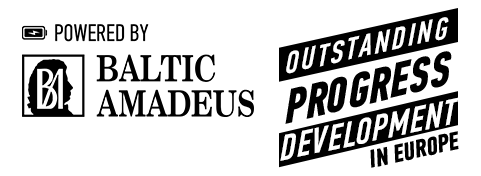
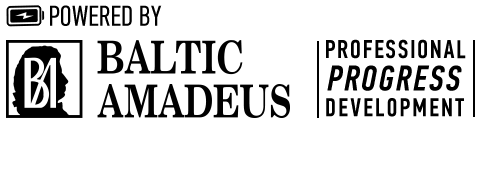
EMEA PUG Challenge colors and images.

diff --git a/Game/Game.Client/Styles.xaml b/Game/Game.Client/Styles.xaml
@@ -6,8 +6,9 @@
     <FontFamily x:Key="OpenSans">/Fonts/#Open Sans</FontFamily>
     <FontFamily x:Key="SegoeSymbol">Segoe UI Symbol</FontFamily>
 
-    <!--<ImageBrush x:Key="BaBackgroundBrush" ImageSource="Assets\background.png" Stretch="UniformToFill" />-->
-    <SolidColorBrush x:Key="BaBackgroundBrush" Color="#58c50f" Opacity="1"></SolidColorBrush>
+    <SolidColorBrush x:Key="BaBackgroundBrush" Color="#5795d2" Opacity="1"></SolidColorBrush>
+    <SolidColorBrush x:Key="BaBackgroundBrushDark" Color="#345694" Opacity="1"></SolidColorBrush>
+    <Color x:Key="ButtonDefaultDisabledBackgroundColor">#345694</Color>
 
     <Color x:Key="TextBlockDefaultForegroundColor" >#FF333333</Color>
     <SolidColorBrush x:Key="TextBlockDefaultForegroundBrush" Color="{StaticResource TextBlockDefaultForegroundColor}" />
@@ -49,7 +50,6 @@
     <Color x:Key="ButtonDefaultBorderColor" >#FFADADAD</Color>
     <Color x:Key="ButtonDefaultForegroundColor" >#FF333333</Color>
     <Color x:Key="ButtonDefaultBackgroundColor" >#FFFFFFFF</Color>
-    <Color x:Key="ButtonDefaultDisabledBackgroundColor" >#357709</Color>
     <Color x:Key="ButtonDefaultMouseOverBackgroundColor" >#FFEBEBEB</Color>
     <Color x:Key="ButtonDefaultPressedBackgroundColor" >#FFCBCBCB</Color>
 
@@ -62,7 +62,7 @@
         <Setter Property="OverridesDefaultStyle" Value="True" />
         <Setter Property="FocusVisualStyle" Value="{x:Null}" />
         <Setter Property="Padding" Value="10,6,10,6" />
-        <Setter Property="Background" Value="#58c50f" />
+        <Setter Property="Background" Value="{StaticResource BaBackgroundBrush}" />
         <Setter Property="Foreground" Value="white" />
         <Setter Property="BorderThickness" Value="1" />
         <Setter Property="BorderBrush" Value="{StaticResource ButtonDefaultBorderBrush}" />
@@ -678,10 +678,10 @@
         <Setter Property="OverridesDefaultStyle" Value="True" />
         <Setter Property="FocusVisualStyle" Value="{x:Null}" />
         <Setter Property="Padding" Value="10,0,10,0" />
-        <Setter Property="Background" Value="#58c50f" />
+        <Setter Property="Background" Value="{StaticResource BaBackgroundBrush}" />
         <Setter Property="Foreground" Value="{StaticResource CheckBoxDefaultForegroundBrush}" />
         <Setter Property="BorderThickness" Value="1" />
-        <Setter Property="BorderBrush" Value="#58c50f" />
+        <Setter Property="BorderBrush" Value="{StaticResource BaBackgroundBrushDark}" />
         <Setter Property="HorizontalContentAlignment" Value="Left" />
         <Setter Property="VerticalContentAlignment" Value="Center" />
         <Setter Property="FontFamily" Value="{StaticResource OpenSans}"/>
@@ -1356,9 +1356,9 @@
         <Setter Property="Padding" Value="0" />
         <Setter Property="BorderThickness" Value="1,0,0,0" />
         <Setter Property="MinHeight" Value="34" />
-        <Setter Property="BorderBrush" Value="#357709" />
+        <Setter Property="BorderBrush" Value="{StaticResource BaBackgroundBrushDark}" />
         <Setter Property="Foreground" Value="{StaticResource GridViewColumnHeaderDefaultForegroundBrush}" />
-        <Setter Property="Background" Value="#58c50f" />
+        <Setter Property="Background" Value="{StaticResource BaBackgroundBrush}" />
         <Setter Property="Template">
             <Setter.Value>
                 <ControlTemplate TargetType="GridViewColumnHeader">
@@ -1380,7 +1380,7 @@
                         </VisualStateManager.VisualStateGroups>
                         <Border x:Name="HeaderBorder" 
                                 BorderThickness="0,0,1,0" 
-                                BorderBrush="#357709"
+                                BorderBrush="{StaticResource BaBackgroundBrushDark}"
                                 Background="{TemplateBinding Background}"
                                 Padding="{TemplateBinding Padding}">
 

diff --git a/Game/Game.Client/Views/OpenGameView.xaml b/Game/Game.Client/Views/OpenGameView.xaml
@@ -240,7 +240,7 @@
 
             <Button Width="40" BorderThickness="0" Background="Transparent" Grid.Row="0" Style="{StaticResource ElipseButton}" Command="{Binding SwapPlayersCommand.Command}" Margin="0,0,0,0" >
                 <Grid>
-                    <Ellipse Fill="#58c50f" Width="34" Height="34"></Ellipse>
+                    <Ellipse Fill="{StaticResource BaBackgroundBrush}" Width="34" Height="34"></Ellipse>
                     <Canvas Width="16.011" Height="13.672" xmlns:x="http://schemas.microsoft.com/winfx/2006/xaml">
                         <Canvas>
                             <!-- Layer 1/Rounded Rectangle 2 copy -->
@@ -252,7 +252,7 @@
 
             <Button Width="40" BorderThickness="0" Grid.Row="1" Background="Transparent" Style="{StaticResource ElipseButton}" Command="{Binding AddPlayerCommand.Command}" Margin="0,10,0,10" >
                 <Grid>
-                    <Ellipse Fill="#58c50f" Width="34" Height="34"></Ellipse>
+                    <Ellipse Fill="{StaticResource BaBackgroundBrush}" Width="34" Height="34"></Ellipse>
                     <av:Canvas Width="14.065" Height="12.010" xmlns:x="http://schemas.microsoft.com/winfx/2006/xaml">
                         <av:Canvas>
                             <!-- Layer 1/Rounded Rectangle 1 copy 5 -->
@@ -272,7 +272,7 @@
                     <controls:ProgressRing Grid.Column="0" IsActive="{Binding RemovePlayerCommand.IsExecuting}" IsLarge="True"  />
                 </Grid>-->
                 <Grid>
-                    <Ellipse Fill="#58c50f" Width="34" Height="34"></Ellipse>
+                    <Ellipse Fill="{StaticResource BaBackgroundBrush}" Width="34" Height="34"></Ellipse>
                     <av:Canvas Width="13.843" Height="12.010" xmlns:x="http://schemas.microsoft.com/winfx/2006/xaml">
                         <av:Canvas>
 

diff --git a/Game/Game.Client/Views/GamePreviewView.xaml b/Game/Game.Client/Views/GamePreviewView.xaml
@@ -206,7 +206,7 @@
                         <RowDefinition Height="Auto" />
                     </Grid.RowDefinitions>
 
-                    <Grid Grid.Row="0" Background="#58c50f">
+                    <Grid Grid.Row="0" Background="{StaticResource BaBackgroundBrush}">
                         <TextBlock Margin="20,0,0,0" VerticalAlignment="Center" Foreground="White">Running Game</TextBlock>
                     </Grid>
 
@@ -313,7 +313,7 @@
                         </ListView>
                     </Grid>
 
-                    <Grid Grid.Row="4" Background="#58c50f">
+                    <Grid Grid.Row="4" Background="{StaticResource BaBackgroundBrush}">
                         <TextBlock Margin="20,0,0,0" VerticalAlignment="Center" Foreground="White">Other info</TextBlock>
                     </Grid>
 
@@ -342,8 +342,8 @@
                     </StackPanel>
 
                     <StackPanel Grid.Row="6">
-                        <Image Source="../Assets/pug.png" Margin="10,0,10,20"/>
-                        <Image Source="../Assets/poweredby.png" />
+                        <Image Source="../Assets/emea.png" Margin="10,0,10,20"/>
+                        <Image Source="../Assets/poweredby.png" Margin="13,10,10,0"/>
                     </StackPanel>
                 </Grid>
             </Grid>

diff --git a/Game/Game.Client/Views/LoginView.xaml b/Game/Game.Client/Views/LoginView.xaml
@@ -48,9 +48,9 @@
 
             <Grid Grid.Row="0">
                 <StackPanel VerticalAlignment="Center">
-                    <Image Source="../Assets/pug.png" Margin="10,0,10,0"/>
+                    <Image Source="../Assets/emea.png" Margin="20,0,20,0"/>
 
-                    <Label Margin="0,15,0,0" HorizontalAlignment="Center" Style="{StaticResource LabelWhite}"  Content="_PROGRAMMER'S CHALLENGE" Foreground="#58c50f" FontWeight="Bold"></Label>
+                    <Label Margin="0,15,0,0" HorizontalAlignment="Center" Style="{StaticResource LabelWhite}"  Content="_PROGRAMMER'S CHALLENGE" Foreground="{StaticResource BaBackgroundBrushDark}" FontWeight="Bold"></Label>
                 </StackPanel>
                 
             </Grid>

diff --git a/Game/Game.Client/Views/LobbyView.xaml b/Game/Game.Client/Views/LobbyView.xaml
@@ -189,7 +189,7 @@
                                     <RowDefinition Height="34"></RowDefinition>
                                     <RowDefinition Height="*"></RowDefinition>
                                 </Grid.RowDefinitions>
-                                <Grid Grid.Row="0" Background="#58c50f">
+                                <Grid Grid.Row="0" Background="{StaticResource BaBackgroundBrush}">
                                     <Label Margin="20,0,0,0" HorizontalAlignment="Left" Foreground="White" Content="_Selected Game"></Label>
                                 </Grid>
                                 <Grid Grid.Row="1" Background="White">

diff --git a/Game/Game.Client/ShellWindow.xaml b/Game/Game.Client/ShellWindow.xaml
@@ -1,7 +1,7 @@
 <Window x:Class="Game.AdminClient.ShellWindow"
         xmlns="http://schemas.microsoft.com/winfx/2006/xaml/presentation"
         xmlns:x="http://schemas.microsoft.com/winfx/2006/xaml"
-        xmlns:regions="http://prismlibrary.com/" Icon="../Assets/Icon.ico"
+        xmlns:regions="http://prismlibrary.com/" Icon="Icon.ico"
         Title="Game Admin Client" MinHeight="700" MinWidth="1280" Width="1280" Height="700">
     <Grid>
         <ContentControl regions:RegionManager.RegionName="MainRegion" HorizontalAlignment="Stretch" VerticalAlignment="Stretch" Margin="0"/>

diff --git a/Game/Game.Client/Infrastructure/UserSettings.cs b/Game/Game.Client/Infrastructure/UserSettings.cs
@@ -5,7 +5,7 @@ namespace Game.AdminClient.Infrastructure
 {
     public static class UserSettings
     {
-        private const string TitleTemplate = "US PUG Challenge - v{0}";
+        private const string TitleTemplate = "EMEA PUG Challenge 2017 - v{0}";
 
         public static TeamRole Role { get; set; }
 
